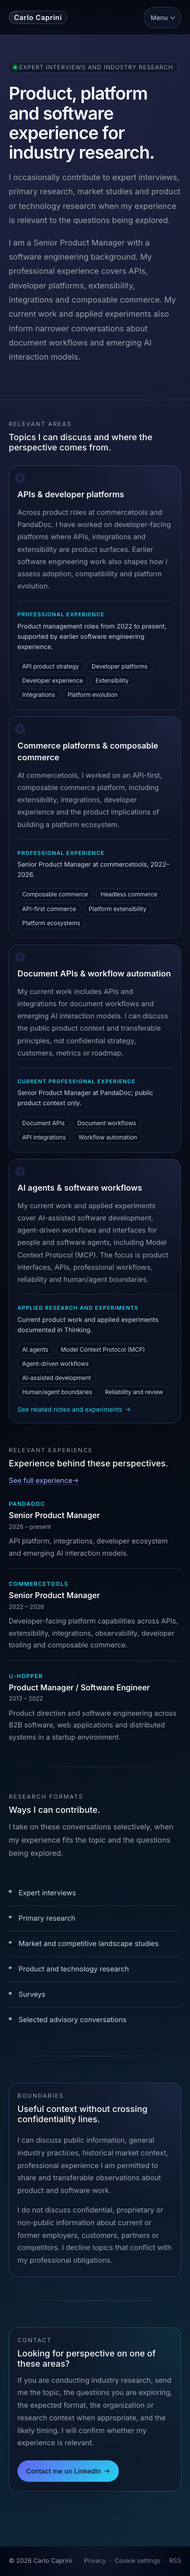
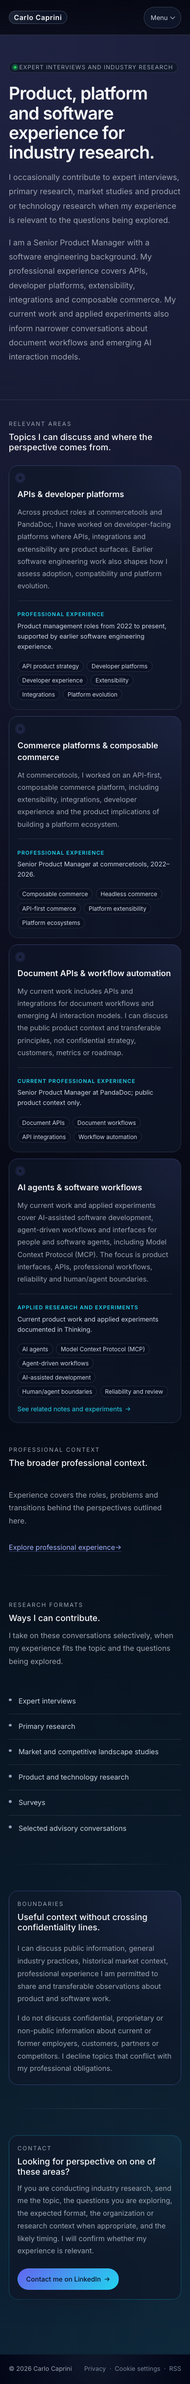
Refine industry expertise experience path

Changed region(s): [[0.0308, 0.0, 0.9231, 0.9642], [0.5231, 0.7465, 0.6769, 0.7776]]

diff --git a/tests/browser/editorial-journeys.spec.js b/tests/browser/editorial-journeys.spec.js
@@ -241,11 +241,12 @@ test("Expert interviews and industry research distinguish professional experienc
   ]);
   await expect(page.getByText("My current work and applied experiments cover AI-assisted software development, agent-driven workflows and interfaces for people and software agents, including Model Context Protocol (MCP). The focus is product interfaces, APIs, professional workflows, reliability and human/agent boundaries.", { exact: true })).toBeVisible();
   await expect(page.getByRole("link", { name: /See related notes and experiments/ })).toHaveAttribute("href", "/series/building-my-ai-operating-system/");
-  await expect(page.locator(".industry-expertise-experience-list > li")).toHaveCount(3);
+  await expect(page.locator(".industry-expertise-experience-section").getByRole("list")).toHaveCount(0);
+  await expect(page.getByRole("heading", { name: "The broader professional context." })).toBeVisible();
   await expect(page.locator(".industry-expertise-format-list > li")).toHaveCount(6);
   await expect(page.getByText("I can discuss public information, general industry practices, historical market context, professional experience I am permitted to share and transferable observations about product and software work.", { exact: true })).toBeVisible();
   await expect(page.getByText("I do not discuss confidential, proprietary or non-public information about current or former employers, customers, partners or competitors. I decline topics that conflict with my professional obligations.", { exact: true })).toBeVisible();
-  await expect(page.getByRole("link", { name: /See full experience/ })).toHaveAttribute("href", "/experience/");
+  await expect(page.getByRole("link", { name: /Explore professional experience/ })).toHaveAttribute("href", "/experience/");
   await expect(page.getByRole("link", { name: /Contact me on LinkedIn/ })).toHaveAttribute("href", "https://www.linkedin.com/in/carlocaprini/");
 
   const expertiseProfile = await page.locator('script[type="application/ld+json"]').evaluateAll((scripts) =>

diff --git a/_includes/styles/industry-expertise.css b/_includes/styles/industry-expertise.css
@@ -117,60 +117,10 @@
   margin-top: 1rem;
 }
 
-.industry-expertise-experience-list,
 .industry-expertise-format-list {
   margin: 0;
   padding: 0;
   list-style: none;
-}
-
-.industry-expertise-experience-list > li {
-  padding: 1.2rem 0;
-  border-bottom: 1px solid var(--color-line);
-}
-
-.industry-expertise-experience-list > li:first-child {
-  padding-top: 0;
-}
-
-.industry-expertise-experience-list > li:last-child {
-  padding-bottom: 0;
-  border-bottom: 0;
-}
-
-.industry-expertise-experience-heading {
-  display: flex;
-  gap: 1rem;
-  align-items: baseline;
-  justify-content: space-between;
-}
-
-.industry-expertise-experience-heading > div > span {
-  color: var(--accent-cyan);
-  font-size: 0.72rem;
-  font-weight: 600;
-  letter-spacing: 0.1em;
-  text-transform: uppercase;
-}
-
-.industry-expertise-experience-heading > span {
-  flex: 0 0 auto;
-  color: var(--color-text-muted);
-  font-size: 0.76rem;
-}
-
-.industry-expertise-experience-heading h3 {
-  margin: 0.3rem 0 0;
-  color: var(--color-text);
-  font-size: 1rem;
-  font-weight: 570;
-}
-
-.industry-expertise-experience-list p {
-  margin: 0.65rem 0 0;
-  color: var(--color-text-muted);
-  font-size: 0.9rem;
-  line-height: 1.7;
 }
 
 .industry-expertise-formats-section,

diff --git a/_layouts/industry-expertise.html b/_layouts/industry-expertise.html
@@ -51,22 +51,11 @@ layout: default
       <div>
         <div class="section-eyebrow">{{ page.experience.eyebrow }}</div>
         <h2 class="section-title" id="industry-expertise-experience-title">{{ page.experience.title }}</h2>
+      </div>
+      <div>
+        <p class="section-description">{{ page.experience.body }}</p>
         <a class="section-link" href="{{ page.experience.action.url | relative_url }}" data-analytics-event="experience_open" data-analytics-link-context="industry_expertise_experience" data-analytics-destination="{{ page.experience.action.url }}">{{ page.experience.action.label }} <span aria-hidden="true">→</span></a>
       </div>
-      <ol class="industry-expertise-experience-list">
-        {% for item in page.experience.items %}
-          <li>
-            <div class="industry-expertise-experience-heading">
-              <div>
-                <span>{{ item.company }}</span>
-                <h3>{{ item.role }}</h3>
-              </div>
-              <span>{{ item.period }}</span>
-            </div>
-            <p>{{ item.description }}</p>
-          </li>
-        {% endfor %}
-      </ol>
     </div>
   </section>
 

diff --git a/_includes/styles/responsive.css b/_includes/styles/responsive.css
@@ -806,15 +806,6 @@
     gap: 1.7rem;
   }
 
-  .industry-expertise-experience-heading {
-    display: block;
-  }
-
-  .industry-expertise-experience-heading > span {
-    display: block;
-    margin-top: 0.35rem;
-  }
-
   .industry-expertise-format-list {
     grid-template-columns: minmax(0, 1fr);
   }

diff --git a/pages/industry-expertise.md b/pages/industry-expertise.md
@@ -4,7 +4,7 @@ title: Expert Interviews and Industry Research
 permalink: /industry-expertise/
 meta_title: Software, API & Commerce Industry Expertise | Carlo Caprini
 meta_description: Selected expert interviews and industry research on software platforms, APIs, composable commerce and applied AI workflows, grounded in product management and software engineering experience.
-last_modified_at: 2026-09-18
+last_modified_at: 2026-10-07
 hero:
   label: Expert interviews and industry research
   title: Product, platform and software experience for industry research.
@@ -65,23 +65,11 @@ areas:
         url: /series/building-my-ai-operating-system/
         series_id: building-my-ai-operating-system
 experience:
-  eyebrow: Relevant experience
-  title: Experience behind these perspectives.
-  items:
-    - company: PandaDoc
-      role: Senior Product Manager
-      period: 2026 – present
-      description: API platform, integrations, developer ecosystem and emerging AI interaction models.
-    - company: commercetools
-      role: Senior Product Manager
-      period: 2022 – 2026
-      description: Developer-facing platform capabilities across APIs, extensibility, integrations, observability, developer tooling and composable commerce.
-    - company: U-Hopper
-      role: Product Manager / Software Engineer
-      period: 2013 – 2022
-      description: Product direction and software engineering across B2B software, web applications and distributed systems in a startup environment.
+  eyebrow: Professional context
+  title: The broader professional context.
+  body: Experience covers the roles, problems and transitions behind the perspectives outlined here.
   action:
-    label: See full experience
+    label: Explore professional experience
     url: /experience/
 formats:
   eyebrow: Research formats
